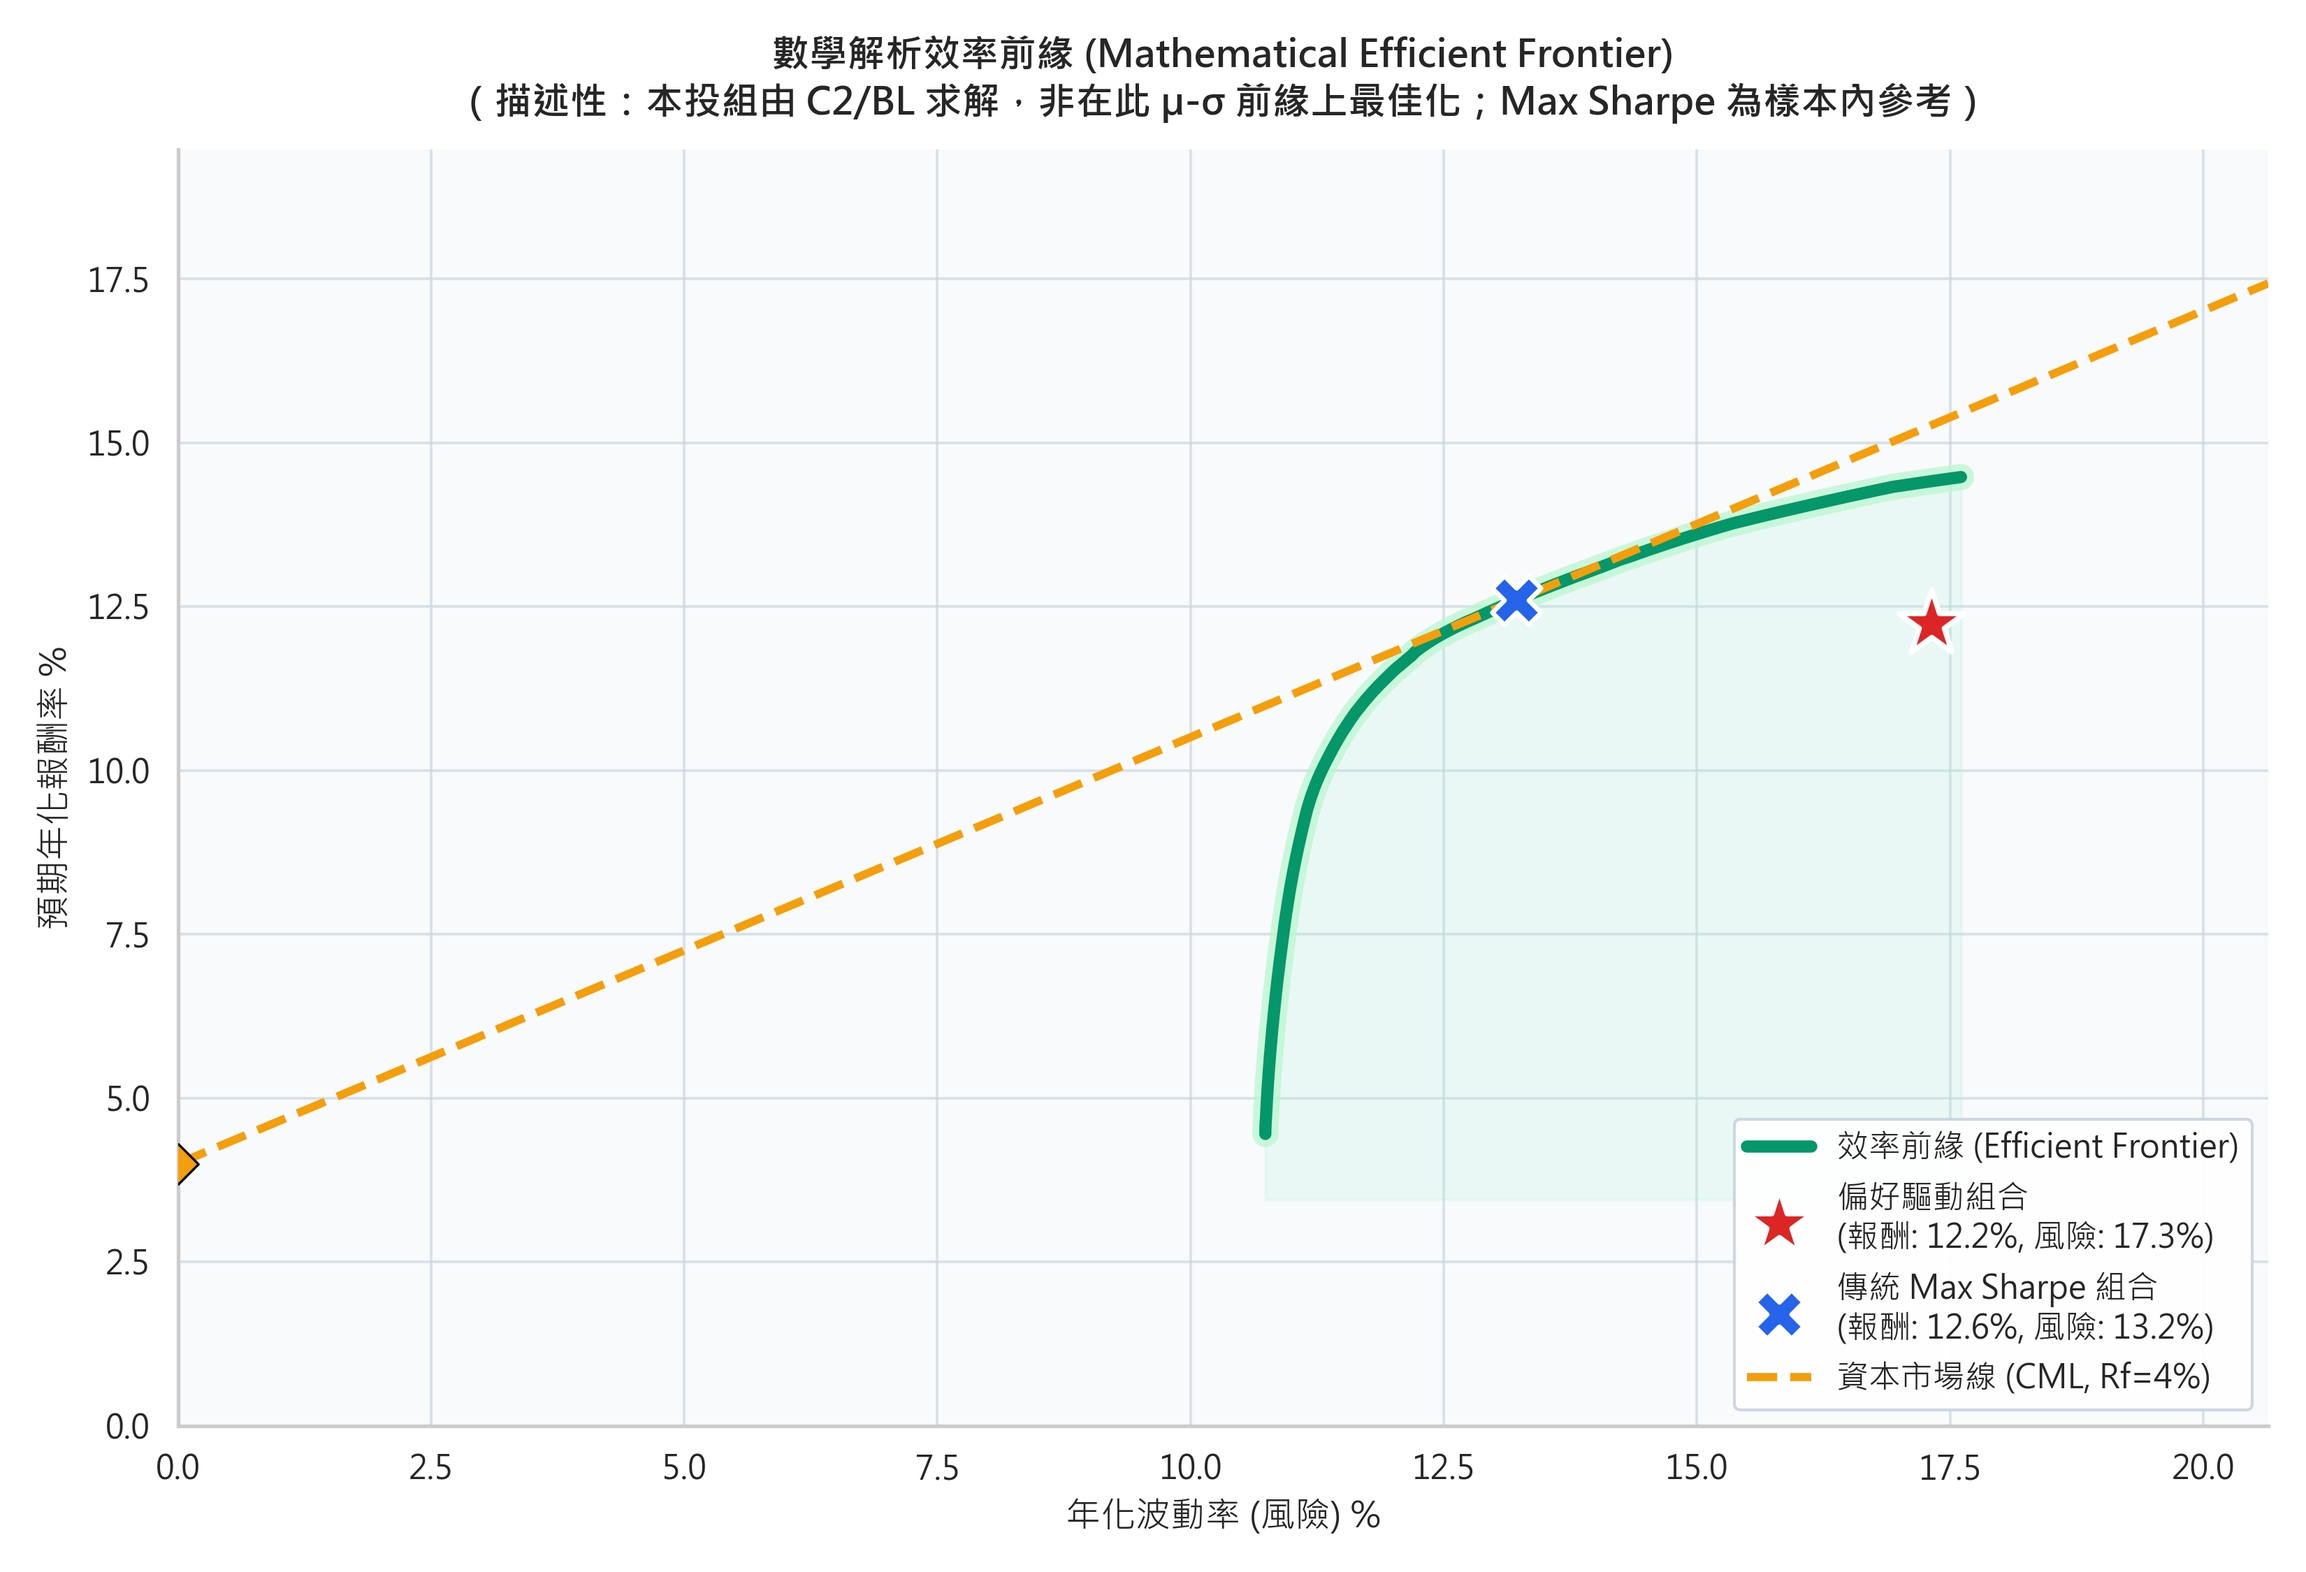
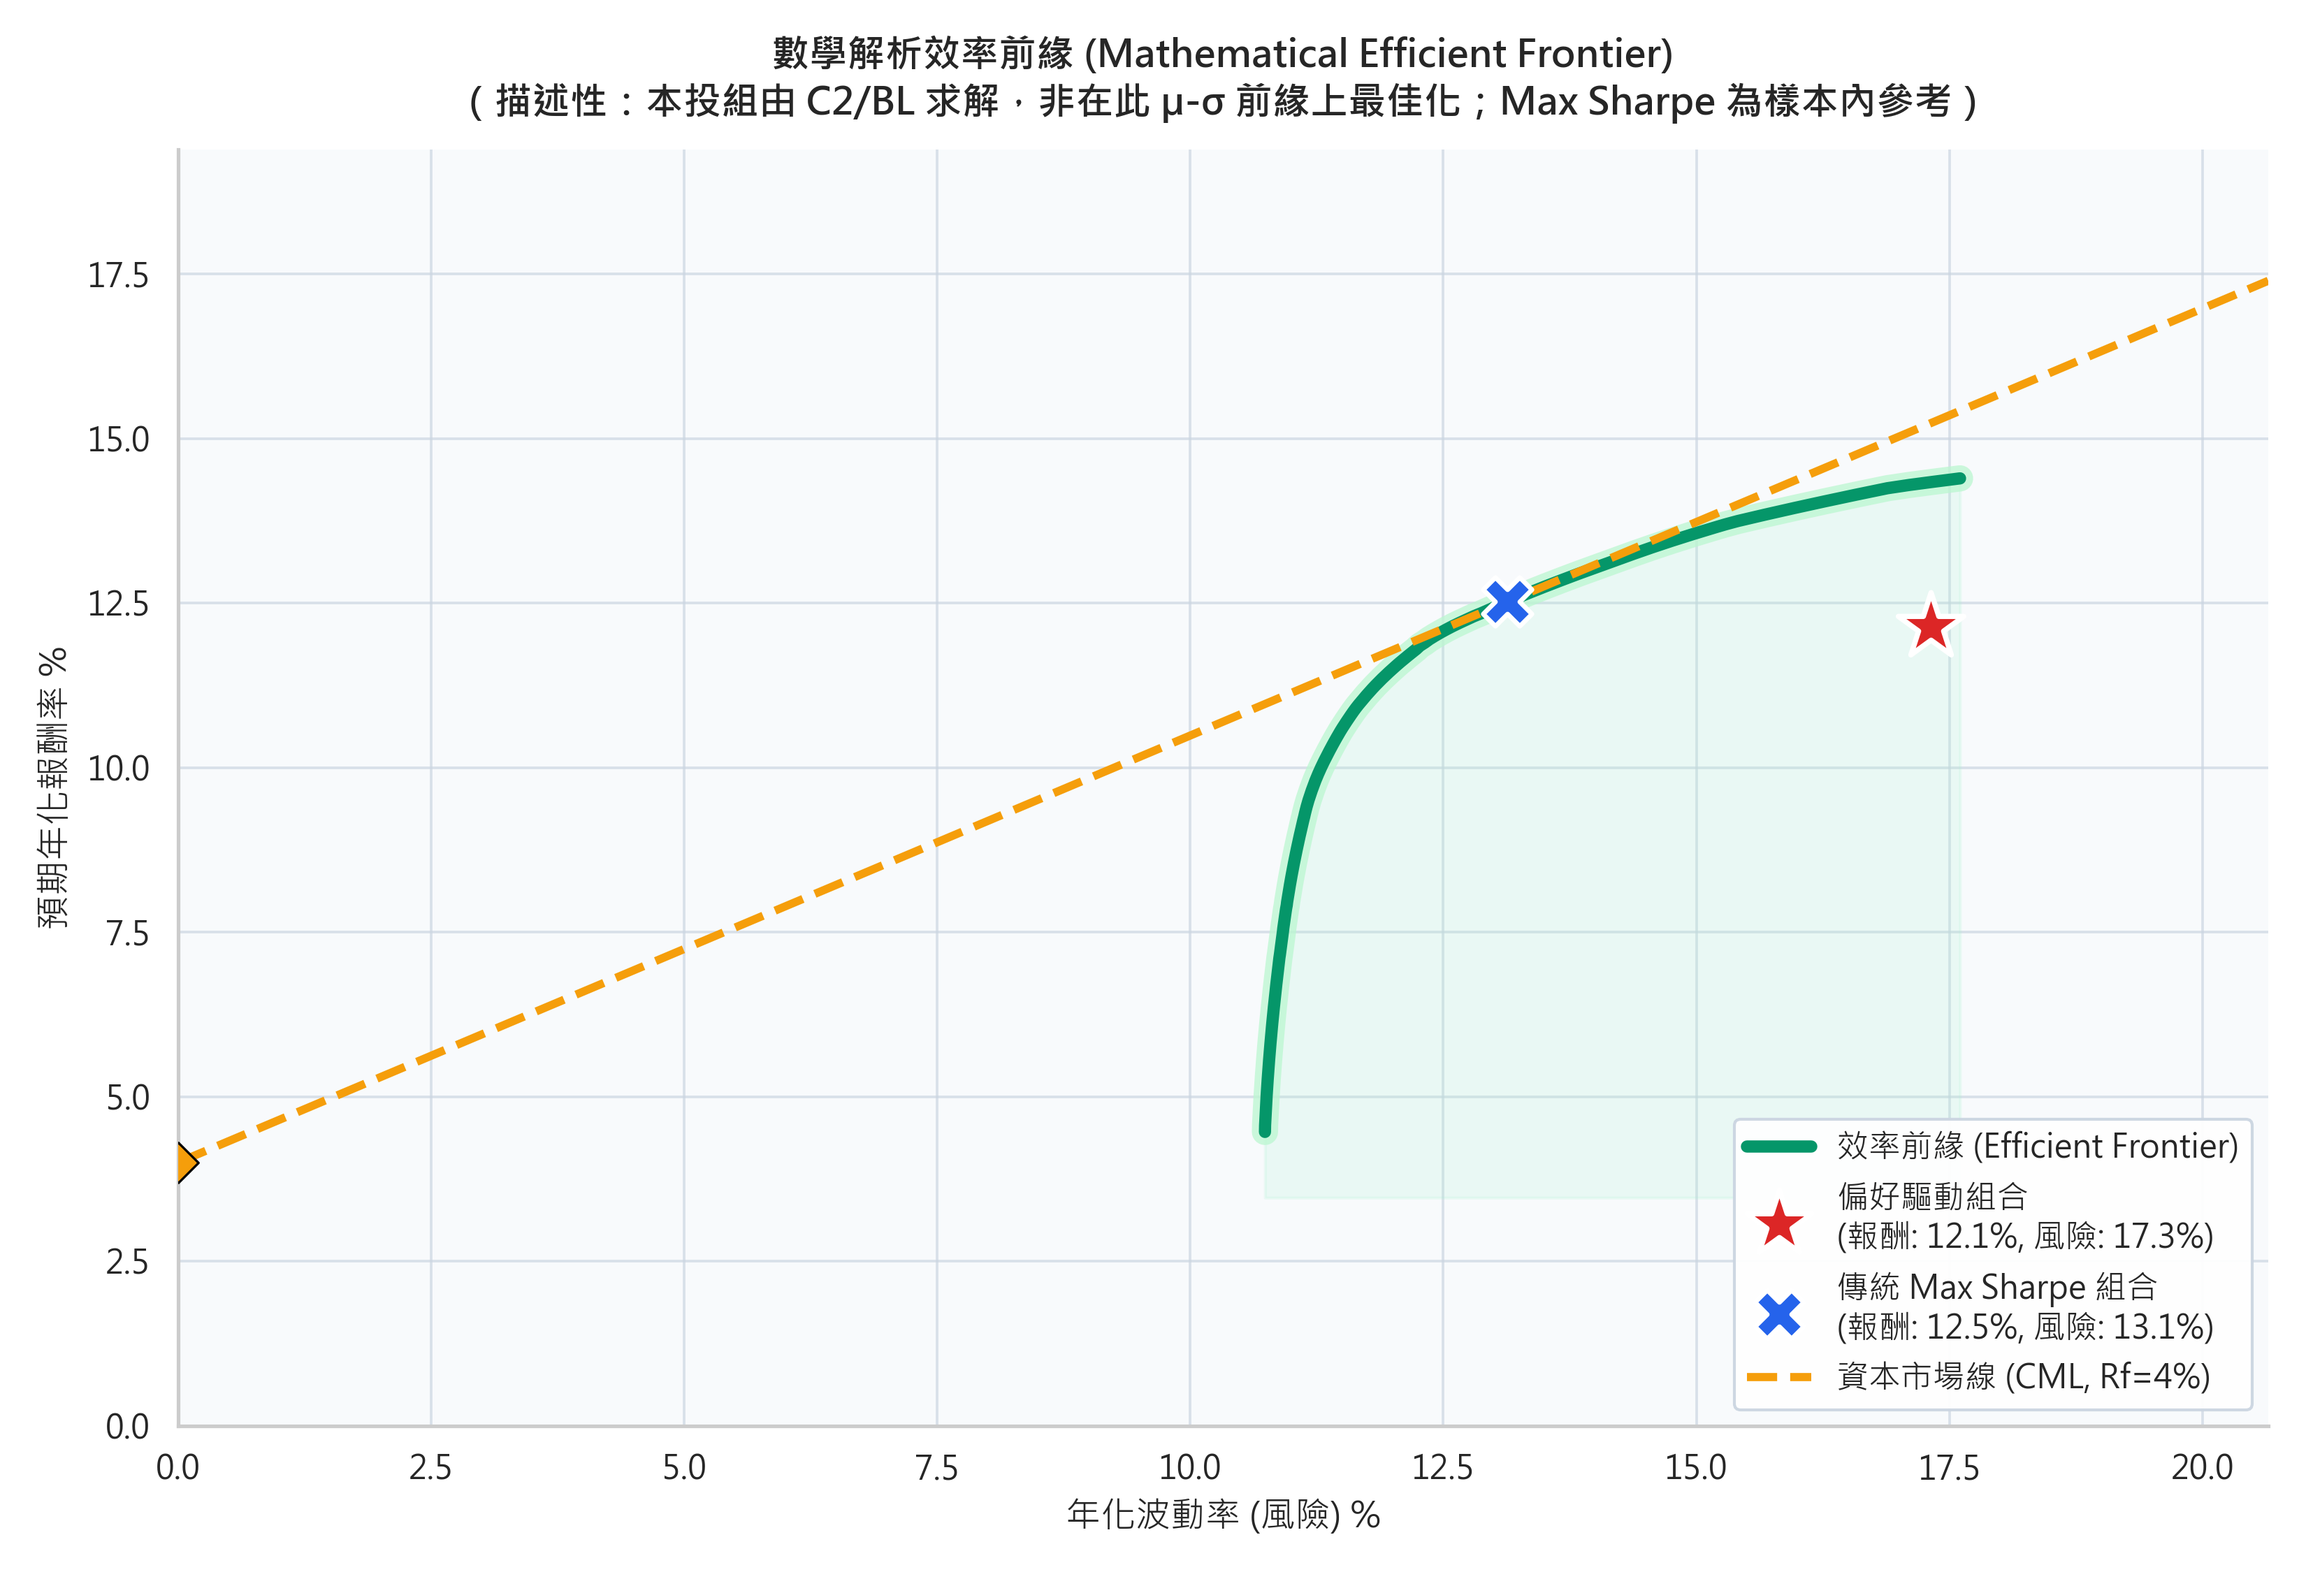
Add user_results/: each main-system & backtest run bundles all figures + reports into one timestamped folder

diff --git a/backtest_engine.py b/backtest_engine.py
@@ -2019,27 +2019,26 @@ def _plot_preference_score_timeseries(
 
 
 def _mirror_run_figures_to_upgrade(png_dir: Path, prefix: str, run_id: str) -> Path:
-    """把本次回測產生的所有圖片複製到 upgrade_figures/<run_id>_arm<X>_<timestamp>/。
+    """把本次回測的「全部圖片 + 報表」集中到 user_results/<run_id>_arm<X>_<timestamp>/。
 
-    每次執行各自一個資料夾，方便逐次比較（含 V-1/V-6 與 portfolio_performance 等所有圖）。
+    每次執行各自一個自包含資料夾（所有 png + report/csv），方便使用者一次取走、逐次比較。
     """
     stamp = time.strftime("%Y%m%d_%H%M%S")
     arm = str(getattr(parameters, "OPTIMIZATION_ARM", "A")).upper()
-    dest = UPGRADE_FIGURES_DIR / f"{run_id}_arm{arm}_{stamp}"
+    user_root = Path(getattr(parameters, "USER_RESULTS_DIR", "user_results"))
+    dest = user_root / f"backtest_{run_id}_arm{arm}_{stamp}"
     dest.mkdir(parents=True, exist_ok=True)
-    # 只複製指定的六張圖：四張回測主圖 + 兩張偏好驗證圖（V-1/V-6）。
-    wanted_suffixes = (
-        "weight_evolution",
-        "portfolio_performance",
-        "dea_score_distribution",
-        "annual_returns",
-        "preference_predictive_scatter",
-        "preference_score_timeseries",
-    )
-    for suffix in wanted_suffixes:
-        fig_path = Path(png_dir) / f"{prefix}_{suffix}.png"
-        if fig_path.exists():
-            shutil.copy2(fig_path, dest / fig_path.name)
+    png_dir = Path(png_dir)
+    # png_dir = backtest_report/png/<run_id>;report/csv 為其同層 sibling。
+    report_dir = png_dir.parent.parent / "report" / run_id
+    csv_dir = png_dir.parent.parent / "csv" / run_id
+    copied = 0
+    for src_dir in (png_dir, report_dir, csv_dir):
+        if src_dir.exists():
+            for f in src_dir.iterdir():
+                if f.is_file():
+                    shutil.copy2(f, dest / f.name)
+                    copied += 1
     return dest
 
 
@@ -2282,7 +2281,7 @@ def _write_unified_backtest_report(
     _write_output_inventory(config, prefix, run_id)
     # 把本次所有圖片（含 V-1/V-6 與 portfolio_performance 等）集中複製到 upgrade_figures/ 的本次專屬資料夾。
     mirrored_dir = _mirror_run_figures_to_upgrade(png_dir, prefix, run_id)
-    print(f"[upgrade_figures] 本次圖片已複製到 {mirrored_dir}")
+    print(f"[user_results] 本次回測全部圖表+報表已集中到 {mirrored_dir}")
 
 
 def run_rolling_backtest(config: BacktestConfig | None = None) -> dict[str, pd.DataFrame]:

diff --git a/functions.py b/functions.py
@@ -3373,3 +3373,23 @@ def run_stage3_pipeline():
     
     comparison_df.to_csv(csv_weights_path, index=False, encoding='utf-8-sig')
     analytics_df.to_csv(csv_analytics_path, index=False, encoding='utf-8-sig')
+
+    # ── 將本次主系統的「全部圖表 + 報表」集中到 user_results/main_{case}_{timestamp}/ ──
+    try:
+        import glob as _glob
+        import shutil
+        from datetime import datetime as _dt
+        _stamp = _dt.now().strftime("%Y%m%d_%H%M%S")
+        _user_root = getattr(parameters, "USER_RESULTS_DIR", "user_results")
+        _dest = os.path.join(_user_root, f"main_{case}_{_stamp}")
+        os.makedirs(_dest, exist_ok=True)
+        _patterns = [f"png\\{case}_*.png", "png\\eda_*.png", "png\\*dea*.png", "png\\*DEA*.png",
+                     f"report\\{file_prefix}_*.txt", f"report\\{file_prefix}_*.csv"]
+        _n = 0
+        for _pat in _patterns:
+            for _f in _glob.glob(_pat):
+                shutil.copy2(_f, os.path.join(_dest, os.path.basename(_f)))
+                _n += 1
+        log.info(f"[user_results] 本次推薦全部圖表+報表（{_n} 檔）已集中到 {_dest}")
+    except Exception as _exc:
+        log.warning(f"[user_results] 集中輸出失敗：{_exc}")

diff --git a/parameters.py b/parameters.py
@@ -163,6 +163,8 @@ USER_PROFILES = {
 }
 
 CASE_NAME = "Neutral_user" # 預設情境名稱
+# 使用者結果總資料夾：主系統與回測「每次執行」各開一個含全部圖表+報表的時間戳子資料夾。
+USER_RESULTS_DIR = "user_results"
 VERBOSE = True # 是否輸出詳細的運算過程訊息 True (Verbose 模式) -> 顯示普通資訊與除錯訊息，False (Silence 模式) -> 只顯示警告與錯誤
 DETERMINISTIC_AHP_WEIGHTS = True # 這裡可以切換是否使用確定性模擬結果, 若想讓教授體驗互動問卷，可以改成 DETERMINISTIC_AHP_WEIGHTS=False
 

diff --git a/system_upgrade_records/00_current_state_and_handoff.md b/system_upgrade_records/00_current_state_and_handoff.md
@@ -12,7 +12,8 @@
 - **視覺化稽核**（`10`）：雷達報酬軸已深化為 beta、前緣圖加註描述性;死碼標記。前緣「標 VT+三核心」的深度重繪尚未做（待目視 QA）。
 - **兩份報告**：`REPORT_A_results_and_math.md`、`REPORT_B_design_story.md`（含假設）。
 - **GitHub 整理完成（本地）**：無硬編金鑰（.env + os.getenv）;`.env.example` 已建;`.gitignore` 擴充（排除 .env/FinBERT 模型/1.1GB active_preference results/價格庫/50MB新聞快取/生成輸出/日誌）;實驗腳本移到 `experiments/`;README 加最新演算法 banner + 報告連結。已 `git init` + 初始 commit（master,1289 檔/25MB,無敏感檔）。**push 待使用者提供 repo 網址/授權。**
-- **待辦**：(1) 前緣深度重繪（VT+三核心,需目視 QA）;(2) push 到 GitHub;(3) 報告請使用者審。
+- **輸出重整（2026-06-06）**：新增單一父資料夾 `user_results/`（`parameters.USER_RESULTS_DIR`,已 gitignore）。**主系統每次執行** → `user_results/main_{case}_{時間戳}/`（收齊 png/{case}_*、eda_*、dea*、report/{case}_* 全部圖+報表;在 `run_stage3_pipeline` 末段收集,已驗證）。**回測每次執行** → `user_results/backtest_{run_id}_arm{X}_{時間戳}/`（收齊該次 png_dir+report_dir+csv_dir 全部;改寫自 `_mirror_run_figures_to_upgrade`）。原 `png/`、`report/`、`backtest_report/`、`upgrade_figures/` 仍是工作輸出,user_results 是自包含彙整。
+- **待辦**：(1) 前緣深度重繪（VT+三核心,需目視 QA）;(2) push 到 GitHub（需 repo 網址）;(3) 報告請使用者審。
 
 ## 0. 一句話現況
 偏好驅動 ETF 投組最佳化專案。已從 Arm A（線性加權）→ Arm C（最小變異+傾斜）→ **Arm C2（profile-dependent 三核心，已實作並驗證成功，2026-06-05）**。C2 讓報酬導向使用者用 beta 核心換到**超過 VT 的絕對報酬**（aggressive 8.85%→13.80% CAGR）；且發現**拿掉傾斜中的資本利得排名（noCAGR）**就讓多個 profile 贏過 VT。**下一步 = walk-forward 多視窗驗證**（確認非單期運氣）。完整成果見 `06_overnight_experiment_report_2026-06-05.md`。
